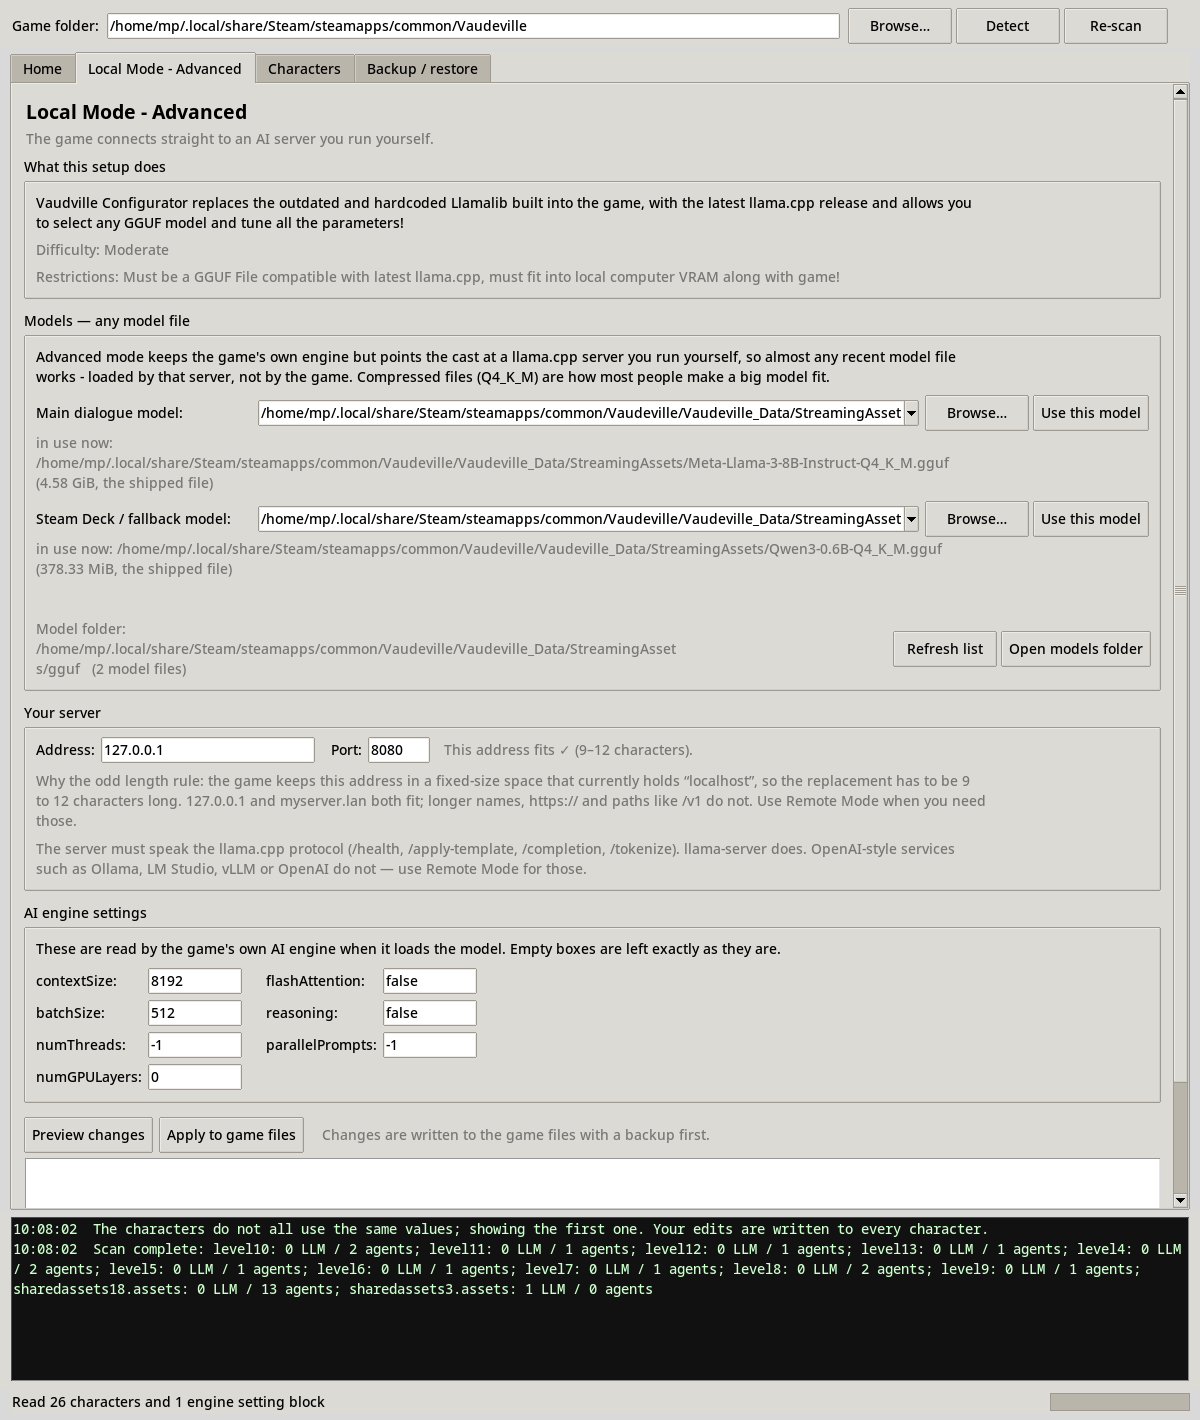
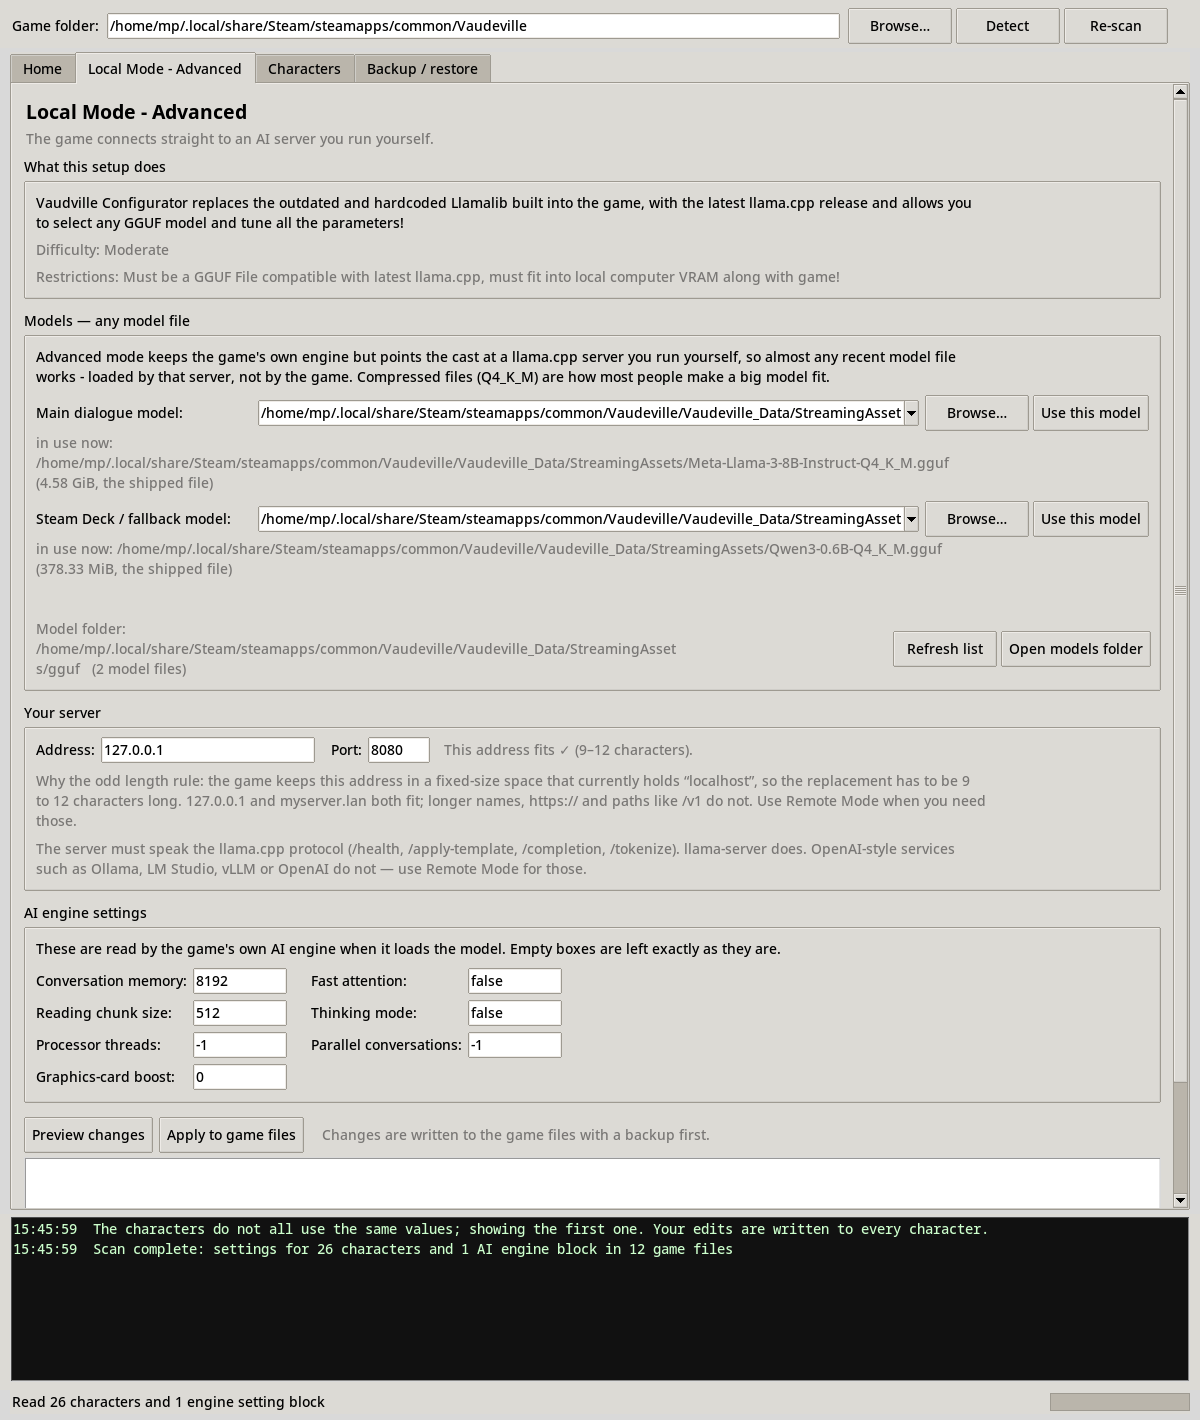
fix(gui): keep the last engine jargon out of the friendly surfaces
- The always-visible log panel and the Home status tooltip now show one plain
  sentence ("settings for 26 characters and 1 AI engine block in 12 game
  files"); the per-file component table goes to manager.log only.
- The Characters tab splits its background reading: "About these groups" is the
  friendly prose, while the IL2CPP research trail sits behind its own clearly
  labelled "Technical evidence (research notes)" toggle.
- The Advanced blocked-plan note says "no server address was given" instead of
  "no host in the BaseURL", and the Characters apply row now says the connection
  details go to every character so the game is never left half-wired.
- README: the tests drive the shipped embedded shim (tools/llamalib_shim.py is
  the readable reference copy), and the dropdown entry is *All characters*.
- Regenerated all six screenshots so the README shows the shipped labels.

~ Midnight Phreaker ~ <midnightphreaker@gmail.com>

Changed region(s): [[0.0308, 0.6817, 0.4933, 0.7746], [0.1542, 0.8676, 0.9558, 0.9296], [0.0308, 0.8676, 0.1233, 0.9296]]

diff --git a/vaudville_configurator.py b/vaudville_configurator.py
@@ -1218,6 +1218,19 @@ class ScanResult:
         parts = [f"{n}: {c['LLM']} LLM / {c['AGENT']} agents" for n, c in sorted(per_file.items())]
         return "; ".join(parts) or "no LLMUnity components found"
 
+    def friendly_summary(self) -> str:
+        """One plain-English line about what the scan found.
+
+        `summary()` is the per-file component table: right for a log file or
+        `--cli scan`, and exactly the jargon the GUI should not show."""
+        if not self.blobs:
+            return T("no AI settings found in this folder")
+        files = {b.path.name for b in self.blobs}
+        return (T("settings for ") +
+                friendly_count(len(self.agents), "character", "characters") + T(" and ") +
+                friendly_count(len(self.llm), "AI engine block", "AI engine blocks") +
+                T(" in ") + friendly_count(len(files), "game file", "game files"))
+
 
 def scan_game(game_dir: Path, use_profile: bool = True, progress=None) -> ScanResult:
     t0 = time.time()
@@ -2214,7 +2227,9 @@ def build_change_set(cfg: dict, res: ScanResult, overrides: dict | None = None,
         host, port, path, tls = split_endpoint(url, int(cfg.get("direct_port", 0) or 0))
         problems = []
         if not host:
-            problems.append(f"BLOCKED ({MODE_LABELS[MODE_DIRECT]}): no host in the BaseURL")
+            problems.append(f"BLOCKED ({MODE_LABELS[MODE_DIRECT]}): no server address was "
+                            "given — fill in the address on the Remote page first, or choose "
+                            "a different setup")
         if path:
             problems.append(
                 f"BLOCKED ({MODE_LABELS[MODE_DIRECT]}): the game's built-in engine hands the "
@@ -4462,6 +4477,8 @@ def gui_main(args) -> int:
             details = ttk.Frame(c)
             details.pack(fill="x", pady=(2, 0))
             self._expander(details, T("About these groups"), self._groups_detail_text())
+            self._expander(details, T("Technical evidence (research notes)"),
+                           self._groups_evidence_text(), side="left")
             self._expander(details, T("Settings this tool cannot change"),
                            self._locked_detail_text(), side="left")
 
@@ -4498,7 +4515,9 @@ def gui_main(args) -> int:
             self.reset_hint.pack(side="left", padx=10)
             add_tip(self.reset_hint, T("The shipped values are the ones a fresh install has."))
             self._build_apply_row(c, "characters",
-                                  T("Only the characters in the selected group are changed."))
+                                  T("Only the characters in the selected group are changed. "
+                                    "The connection details go to every character, so the "
+                                    "game is never left half-wired."))
             self._update_group_scope()
 
         def _expander(self, parent, label: str, text: str, side: str = "left"):
@@ -4531,14 +4550,16 @@ def gui_main(args) -> int:
             return btn
 
         def _groups_detail_text(self) -> str:
-            bits = []
-            ghelp = help_line(GROUP_HELP, ("about", "groups", "intro"), "")
-            if ghelp:
-                bits.append(ghelp)
+            """Friendly prose about the cast groups — no engine internals."""
+            return help_line(GROUP_HELP, ("about", "groups", "intro"), "")
+
+        def _groups_evidence_text(self) -> str:
+            """The research trail behind the group list, for the curious.
+
+            Kept behind its own clearly-technical toggle: it names Unity and
+            IL2CPP internals, which is good evidence and poor onboarding."""
             ev = evidence_text()
-            if ev:
-                bits.append(T("Where this list comes from:") + "\n" + ev)
-            return "\n\n".join(bits)
+            return (T("Where this list comes from:") + "\n" + ev) if ev else ""
 
         def _locked_detail_text(self) -> str:
             lines = [T("These look editable in other tools, but changing them here would do "
@@ -4724,7 +4745,7 @@ def gui_main(args) -> int:
                 if self.info_tip:
                     self.info_tip.set_text(T("Where the game was found, which build it is, and "
                                              "how many character and engine settings this tool "
-                                             "can see.") + "\n" + res.summary())
+                                             "can see.") + "\n" + res.friendly_summary())
                 for n in res.notes:
                     self.log("note: " + n)
                 self.load_values()
@@ -4737,7 +4758,8 @@ def gui_main(args) -> int:
                             T(" and ") +
                             friendly_count(len(res.llm), "engine setting block",
                                            "engine setting blocks"))
-                self.log(T("Scan complete: ") + res.summary())
+                self.log(T("Scan complete: ") + res.friendly_summary())
+                log("scan detail: " + res.summary())
             self.run(work, done, T("reading the game files…"))
 
         def _scan_text(self, gd: Path, res: ScanResult) -> str:
@@ -5184,7 +5206,8 @@ def gui_main(args) -> int:
                     self.scan = res2
                     self.info_var.set(self._scan_text(gd, res2))
                     self.log(T("Wrote %s; backup at %s") % (len(edits), rec.dir))
-                    self.log(T("Checked afterwards: ") + res2.summary())
+                    self.log(T("Checked afterwards: ") + res2.friendly_summary())
+                    log("post-write detail: " + res2.summary())
                     self.extra_overrides = {}
                     self.load_values()
                     self._update_group_scope()

diff --git a/README.md b/README.md
@@ -200,7 +200,7 @@ Story Editor roles*, which covers the same thirteen roles reused when you write 
 your own custom mysteries. That is eleven groups and twenty-six characters in total.
 
 The **Which characters?** dropdown chooses who your changes apply to. Pick a place to
-change just the people you meet there, or pick *All characters (26)* to change everybody
+change just the people you meet there, or pick *All characters* to change everybody
 at once. Groups you leave alone keep exactly the settings they have now, so you can give
 the shopkeeper a calmer style while everybody else carries on improvising.
 
@@ -392,8 +392,9 @@ blocks even when a tag is split across two chunks, so reasoning text never reach
 speech synthesiser. The API key goes to the translator through the environment, never
 through a command line.
 
-The same translator code lives standalone in `tools/llamalib_shim.py`, and `tests/` has
-end-to-end scripts that run it against a mock backend or a real `llama-server`.
+The same translator code ships inside the app, and `tests/` has end-to-end scripts
+that run that shipped copy against a mock backend or a real `llama-server`.
+`tools/llamalib_shim.py` is the readable reference copy of that code.
 
 **Releases.** `.forgejo/workflows/release.yml` builds both single-file binaries and
 attaches them to a release whenever the version in `VERSION` changes, or on demand from
